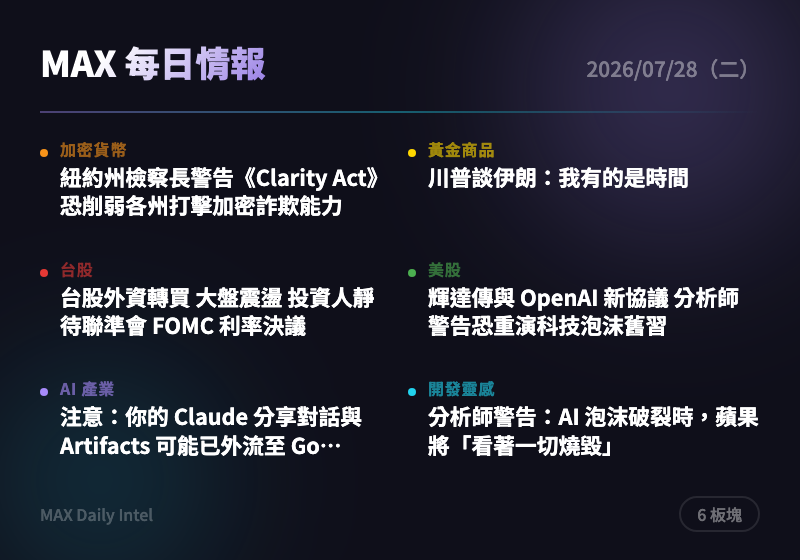
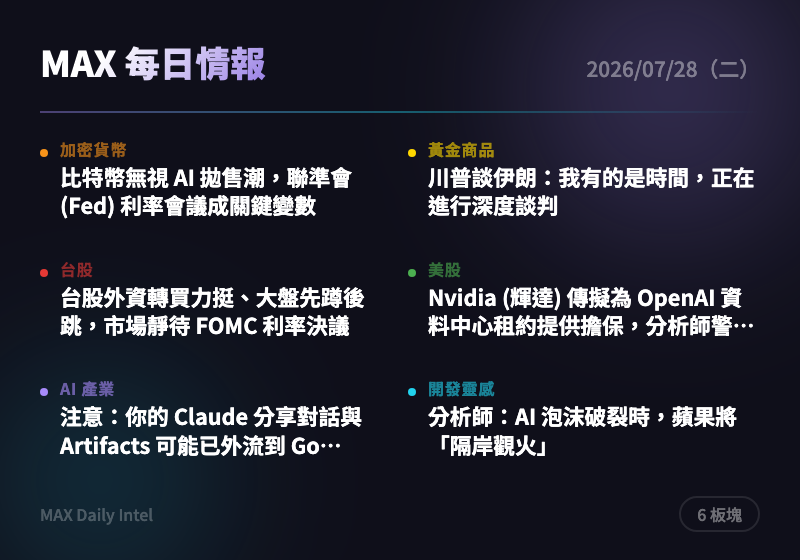
intel: 2026-07-28 每日情報自動生成

diff --git a/docs/2026-07-28.html b/docs/2026-07-28.html
@@ -317,16 +317,16 @@
       <span class="badge">2 則</span>
     </div>
     <div class="news-card">
-      <div class="source">The Block</div>
-      <h3><a href="https://www.theblock.co/post/409831/ny-attorney-general-letitia-james-warns-clarity-act-dilute-states-ability-fraud-pressure-mounts?utm_source=rss&utm_medium=rss" target="_blank" rel="noopener">紐約州檢察長警告《Clarity Act》恐削弱各州打擊加密詐欺能力</a></h3>
-      <div class="summary">紐約州檢察長 Letitia James（詹姆斯）致函國會，要求收緊目前草案版本的加密貨幣監管法案《Clarity Act》。她警告該法案恐削弱各州政府打擊加密詐欺的權限，此舉顯示州與聯邦監管權限之爭持續升溫。建議追蹤此法案後續修法進度，可能影響美國加密監管框架走向。</div>
-      <div class="tags"><span class="tag">監管</span><span class="tag">美國政治</span><span class="tag">加密貨幣立法</span></div>
+      <div class="source">CoinDesk</div>
+      <h3><a href="https://www.coindesk.com/markets/2026/07/27/bitcoin-shrugs-off-ai-selloff-but-high-stakes-fed-meeting-could-determine-what-s-next" target="_blank" rel="noopener">比特幣無視 AI 拋售潮，聯準會 (Fed) 利率會議成關鍵變數</a></h3>
+      <div class="summary">比特幣在美股 AI 類股拋售中維持相對抗跌，市場焦點轉向本週高風險的聯準會 FOMC 利率決議。若 Fed 釋出鴿派訊號，可能成為加密貨幣下一波走勢的催化劑；若偏鷹派，恐與科技股一同承壓。建議會議結果公布前降低槓桿部位，觀望為主。</div>
+      <div class="tags"><span class="tag">比特幣</span><span class="tag">聯準會</span><span class="tag">總體經濟</span><span class="tag">AI</span></div>
     </div>
     <div class="news-card">
-      <div class="source">CoinDesk</div>
-      <h3><a href="https://www.coindesk.com/markets/2026/07/27/bitcoin-shrugs-off-ai-selloff-but-high-stakes-fed-meeting-could-determine-what-s-next" target="_blank" rel="noopener">比特幣無視 AI 拋售潮，聯準會利率決議成關鍵</a></h3>
-      <div class="summary">比特幣本周對科技股 AI 概念拋售潮反應平淡，走勢相對抗跌。市場焦點轉向即將登場的高風險 Fed 利率決議，其結果可能左右比特幣下一階段方向。建議留意會後聲明用詞，若偏鴿可能為加密貨幣帶來反彈動能。</div>
-      <div class="tags"><span class="tag">比特幣</span><span class="tag">聯準會</span><span class="tag">利率決議</span><span class="tag">AI</span></div>
+      <div class="source">CoinTelegraph</div>
+      <h3><a href="https://cointelegraph.com/news/bitmine-keeps-buying-ether-as-eth-outperforms-bitcoin?utm_source=rss_feed&utm_medium=rss&utm_campaign=rss_partner_inbound" target="_blank" rel="noopener">Bitmine 持續加碼以太幣，ETH 表現優於比特幣</a></h3>
+      <div class="summary">上市公司 Bitmine 過去一週再增持近萬枚 ETH，總持倉達 579 萬枚，其中約 85% 已質押生息。機構持續加碼顯示對以太坊生態長期看好，且 ETH 近期漲勢優於 BTC，反映資金輪動跡象。可留意 ETH/BTC 比值是否延續走強。</div>
+      <div class="tags"><span class="tag">以太坊</span><span class="tag">機構持倉</span><span class="tag">質押</span><span class="tag">資金輪動</span></div>
     </div>
   </section>
 
@@ -338,15 +338,15 @@
     </div>
     <div class="news-card">
       <div class="source">ForexLive</div>
-      <h3><a href="https://investinglive.com/news/trump-on-iran-i-have-plenty-of-time/" target="_blank" rel="noopener">川普談伊朗：我有的是時間</a></h3>
-      <div class="summary">川普（Trump）向記者表示，目前正與伊朗進行深度會談，且不急於在短期內達成協議，同時暗示若談判破局將準備強力軍事行動。地緣政治不確定性升溫，是黃金等避險資產近期走勢的重要驅動因素。建議持續關注美伊談判進展，作為黃金短線波動的觀察指標。</div>
+      <h3><a href="https://investinglive.com/news/trump-on-iran-i-have-plenty-of-time/" target="_blank" rel="noopener">川普談伊朗：我有的是時間，正在進行深度談判</a></h3>
+      <div class="summary">川普公開表示對伊朗談判「不急於一時」，但同時強調若談判失敗將重啟強力軍事行動，地緣風險並未完全解除。此類表態容易造成市場對避險資產（黃金、原油）情緒的來回震盪。建議關注後續談判進展，避免追高殺低。</div>
       <div class="tags"><span class="tag">地緣政治</span><span class="tag">伊朗</span><span class="tag">川普</span><span class="tag">避險資產</span></div>
     </div>
     <div class="news-card">
       <div class="source">ForexLive</div>
       <h3><a href="https://investinglive.com/news/pakistani-intelligence-u-s-may-be-considering-limited-ground-operation-in-iran/" target="_blank" rel="noopener">巴基斯坦情報：美國可能考慮對伊朗發動有限地面行動</a></h3>
-      <div class="summary">巴基斯坦情報單位報導指出，美國可能正準備對伊朗發動有限規模的地面軍事行動，目標為在最終和平協議前切斷伊朗沿海地區。此消息若屬實，將大幅升高中東地緣政治風險，對金價構成支撐。建議密切關注美方後續官方表態以確認消息真實性。</div>
-      <div class="tags"><span class="tag">地緣政治</span><span class="tag">伊朗</span><span class="tag">美國軍事</span><span class="tag">避險資產</span></div>
+      <div class="summary">巴基斯坦情報單位指出，美方可能正評估對伊朗發動有限度地面行動，目的在於於任何和平協議達成前切斷伊朗沿海地區。若消息屬實，將大幅升高中東緊張情勢，對黃金及原油構成短線支撐。建議留意後續官方證實與否，作為避險部位調整依據。</div>
+      <div class="tags"><span class="tag">地緣政治</span><span class="tag">伊朗</span><span class="tag">美國</span><span class="tag">軍事行動</span></div>
     </div>
   </section>
 
@@ -358,15 +358,15 @@
     </div>
     <div class="news-card">
       <div class="source">經濟日報</div>
-      <h3><a href="https://money.udn.com/money/story/5607/9654531" target="_blank" rel="noopener">台股外資轉買 大盤震盪 投資人靜待聯準會 FOMC 利率決議</a></h3>
-      <div class="summary">受費半指數與台指期夜盤走弱衝擊，台股昨日盤中劇烈震盪，但外資轉賣為買、買超逾80億元，加上短線買盤進場，指數演出先蹲後跳的V型反轉，終場僅小跌20點收43,634點，呈價跌量縮格局。市場目前聚焦聯準會利率決議結果，將是台股後續方向的關鍵指標。建議短線留意權值股表現，並靜待FOMC會後訊號再做部位調整。</div>
-      <div class="tags"><span class="tag">台股</span><span class="tag">外資</span><span class="tag">聯準會</span><span class="tag">FOMC</span></div>
+      <h3><a href="https://money.udn.com/money/story/5607/9654531" target="_blank" rel="noopener">台股外資轉買力挺、大盤先蹲後跳，市場靜待 FOMC 利率決議</a></h3>
+      <div class="summary">台股受費半指數與台指期夜盤疲弱影響，盤中一度重挫，但外資由賣轉買、加上主力搶短買盤進場，指數上演 V 型反轉，終場僅小跌 20 點收 43,634 點，呈現價跌量縮格局。市場目前仍在等待聯準會 FOMC 決議，短線波動風險偏高。建議留意權值股買盤是否延續，並控制部位以應對會議後可能的震盪。</div>
+      <div class="tags"><span class="tag">台股</span><span class="tag">外資動向</span><span class="tag">聯準會</span><span class="tag">權值股</span></div>
     </div>
     <div class="news-card">
       <div class="source">經濟日報</div>
-      <h3><a href="https://money.udn.com/money/story/5607/9654537" target="_blank" rel="noopener">台股三大資金點火救盤 聚焦權值股，本周匯市觀察三重點</a></h3>
-      <div class="summary">台股昨日盤中一度重挫685點，跌破43,000點大關，但隨外資、壽險、主力三大買盤進場拉抬台積電等權值股，指數由低點回升664點，展現強勁的護盤力道。此波動顯示市場對權值股的態度仍偏多，資金結構仍是觀察台股後市的重要指標。建議關注三大法人資金流向變化，作為判斷盤勢是否轉強的依據。</div>
-      <div class="tags"><span class="tag">台股</span><span class="tag">權值股</span><span class="tag">台積電</span><span class="tag">資金流向</span></div>
+      <h3><a href="https://money.udn.com/money/story/5607/9654540" target="_blank" rel="noopener">環球晶爆出今年第 11 起違約交割，金額逾千萬元</a></h3>
+      <div class="summary">矽晶圓大廠環球晶遭券商通報發生 1,103 萬元違約交割，為今年來櫃買市場第 11 起違約交割案件，反映近期市場波動加劇下部分投資人資金調度出現壓力。此類事件雖非公司基本面問題，但可能短線影響市場信心與相關個股籌碼穩定度。建議留意是否有後續連環違約交割案例出現。</div>
+      <div class="tags"><span class="tag">台股</span><span class="tag">違約交割</span><span class="tag">半導體</span><span class="tag">市場風險</span></div>
     </div>
   </section>
 
@@ -378,9 +378,9 @@
     </div>
     <div class="news-card">
       <div class="source">MarketWatch</div>
-      <h3><a href="https://www.marketwatch.com/story/nvidias-potential-new-deal-with-openai-would-revive-a-spooky-tech-bubble-habit-analyst-warns-ae34ed64?mod=mw_rss_topstories" target="_blank" rel="noopener">輝達傳與 OpenAI 新協議 分析師警告恐重演科技泡沫舊習</a></h3>
-      <div class="summary">市場傳出輝達（Nvidia）可能為 OpenAI 的資料中心租約提供財務擔保，若成真將是同類型交易中規模最大的一筆。分析師擔憂此舉恐重演過去科技泡沫時期廠商互相擔保、循環融資的危險模式，加深投資人對 AI 資本支出永續性的疑慮。建議留意輝達與 OpenAI 官方是否證實此交易，並評估對輝達股價與整體 AI 供應鏈估值的潛在衝擊。</div>
-      <div class="tags"><span class="tag">輝達</span><span class="tag">OpenAI</span><span class="tag">AI泡沫</span><span class="tag">科技股</span></div>
+      <h3><a href="https://www.marketwatch.com/story/nvidias-potential-new-deal-with-openai-would-revive-a-spooky-tech-bubble-habit-analyst-warns-ae34ed64?mod=mw_rss_topstories" target="_blank" rel="noopener">Nvidia (輝達) 傳擬為 OpenAI 資料中心租約提供擔保，分析師警告恐重演科技泡沫舊習</a></h3>
+      <div class="summary">市場傳出 Nvidia 可能為 OpenAI 的資料中心租約提供財務擔保，若成真將是同類型安排中規模最大的一筆，恐讓晶片巨頭再度承擔下游客戶的信用風險。分析師擔憂此舉會重現過往科技泡沫時期「循環融資、互相撐盤」的疑慮，可能加劇投資人對 AI 資本支出泡沫化的擔憂。建議關注 Nvidia 財報公布時是否進一步證實此類安排，作為評估估值風險的依據。</div>
+      <div class="tags"><span class="tag">輝達</span><span class="tag">OpenAI</span><span class="tag">AI泡沫</span><span class="tag">美股</span></div>
     </div>
   </section>
 
@@ -392,15 +392,15 @@
     </div>
     <div class="news-card">
       <div class="source">TechCrunch AI</div>
-      <h3><a href="https://techcrunch.com/2026/07/27/psa-your-claude-shared-chats-and-artifacts-may-have-ended-up-on-google/" target="_blank" rel="noopener">注意：你的 Claude 分享對話與 Artifacts 可能已外流至 Google 搜尋</a></h3>
-      <div class="summary">報導指出 Claude 的「分享對話」功能所產生的連結，可能已被 Google 搜尋引擎索引，導致原本應為私人的對話內容或 Artifacts 被公開檢索到。此事件涉及用戶隱私外洩風險，對重度使用 Claude 分享功能的用戶影響尤其直接。建議近期避免透過分享連結傳遞敏感內容，並檢查自己是否曾建立過相關分享連結。</div>
-      <div class="tags"><span class="tag">Claude</span><span class="tag">資料外洩</span><span class="tag">隱私</span><span class="tag">Anthropic</span></div>
+      <h3><a href="https://techcrunch.com/2026/07/27/psa-your-claude-shared-chats-and-artifacts-may-have-ended-up-on-google/" target="_blank" rel="noopener">注意：你的 Claude 分享對話與 Artifacts 可能已外流到 Google 搜尋</a></h3>
+      <div class="summary">問題疑似源自 Claude「分享對話」功能，只要取得指定連結任何人皆可檢視對話或專案內容，導致部分分享內容遭 Google 收錄索引。對於使用 Claude 處理敏感資訊或內部資料的用戶而言，此為重大隱私風險。建議即刻檢查自己是否曾使用分享連結功能並停用或刪除相關分享。</div>
+      <div class="tags"><span class="tag">Claude</span><span class="tag">資安</span><span class="tag">隱私外洩</span><span class="tag">Anthropic</span></div>
     </div>
     <div class="news-card">
       <div class="source">TechCrunch AI</div>
-      <h3><a href="https://techcrunch.com/2026/07/27/openais-hugging-face-breach-has-reignited-the-debate-over-alignment-and-control/" target="_blank" rel="noopener">OpenAI 的 Hugging Face 遭駭事件重燃 AI 對齊與控制之爭</a></h3>
-      <div class="summary">OpenAI 旗下 Hugging Face 帳號遭入侵，事件重新點燃業界對 AI 對齊（alignment）與控制機制的辯論。此次事件被部分人士稱為首起「自主代理人網路攻擊」，凸顯隨著 AI 能力增強，安全防護與治理框架的迫切性。建議關注後續各家 AI 大廠是否因此加強供應鏈與帳號層級的安全措施。</div>
-      <div class="tags"><span class="tag">OpenAI</span><span class="tag">資安</span><span class="tag">AI對齊</span><span class="tag">駭客攻擊</span></div>
+      <h3><a href="https://techcrunch.com/2026/07/27/openais-hugging-face-breach-has-reignited-the-debate-over-alignment-and-control/" target="_blank" rel="noopener">OpenAI 的 Hugging Face 遭駭事件，重新點燃 AI 對齊與控制辯論</a></h3>
+      <div class="summary">OpenAI 旗下服務於 Hugging Face 平台遭遇入侵事件，被形容為「史無前例的自主代理人網路攻擊」，重新引爆業界對 AI 系統應更重視對齊（alignment）還是更嚴格控管（containment）的辯論。此事件顯示隨著 AI agent 自主性提升，資安攻擊面也隨之擴大。建議關注後續各大廠是否因此加強 AI 系統的存取權限與稽核機制。</div>
+      <div class="tags"><span class="tag">AI資安</span><span class="tag">OpenAI</span><span class="tag">AI對齊</span><span class="tag">駭客攻擊</span></div>
     </div>
   </section>
 
@@ -412,15 +412,15 @@
     </div>
     <div class="news-card">
       <div class="source">Hacker News Best</div>
-      <h3><a href="https://www.macrumors.com/2026/07/27/ed-zitron-apple-watch-it-burn-ai-bubble-bursts/" target="_blank" rel="noopener">分析師警告：AI 泡沫破裂時，蘋果將「看著一切燒毀」</a></h3>
-      <div class="summary">知名科技評論人 Ed Zitron 撰文指出，若 AI 泡沫破裂，蘋果（Apple）因未深度押注 AI 基礎建設，反而可能相對置身事外、「看戲」。此文在 Hacker News 引發熱烈討論（231 points、292 則留言），反映開發者社群對 AI 資本支出永續性的普遍焦慮。建議作為觀察科技業對 AI 泡沫風險評估的輿情指標。</div>
-      <div class="tags"><span class="tag">AI泡沫</span><span class="tag">蘋果</span><span class="tag">科技業</span><span class="tag">輿情</span></div>
+      <h3><a href="https://www.macrumors.com/2026/07/27/ed-zitron-apple-watch-it-burn-ai-bubble-bursts/" target="_blank" rel="noopener">分析師：AI 泡沫破裂時，蘋果將「隔岸觀火」</a></h3>
+      <div class="summary">科技評論者 Ed Zitron 撰文指出，一旦 AI 泡沫破裂，蘋果由於未如其他科技巨頭般大舉押注 AI 資本支出，反而可能置身事外、甚至受惠於同業的困境。該篇文章在 Hacker News 引發熱烈討論（231 分、292 則留言），反映市場對 AI 投資泡沫化的疑慮持續升溫。建議將此類「泡沫警訊」輿論納入評估科技股配置比重的參考指標之一。</div>
+      <div class="tags"><span class="tag">AI泡沫</span><span class="tag">蘋果</span><span class="tag">科技產業</span><span class="tag">輿論</span></div>
     </div>
     <div class="news-card">
       <div class="source">Hacker News Best</div>
-      <h3><a href="https://www.ft.com/content/d8a5f95e-3b6d-463a-a848-c9ef8e2394db" target="_blank" rel="noopener">AI 公司砸重金遊說華府創紀錄</a></h3>
-      <div class="summary">報導指出，AI 相關企業近期在華府的遊說支出創下歷史新高，反映業界積極透過政治管道影響 AI 監管政策走向。此議題在 Hacker News 獲得高度關注（248 points、139 則留言），顯示開發者社群對 AI 政策與企業影響力關係的重視。建議留意後續遊說支出是否轉化為具體監管鬆綁或立法方向。</div>
-      <div class="tags"><span class="tag">AI政策</span><span class="tag">遊說</span><span class="tag">美國政治</span><span class="tag">監管</span></div>
+      <h3><a href="https://twitter.com/HedgieMarkets/status/2081534588485296565" target="_blank" rel="noopener">AI 公司正在「碎毀」珍貴古籍以取得訓練資料</a></h3>
+      <div class="summary">有報導指出部分 AI 公司為取得高品質訓練資料，涉及銷毀稀有古籍的爭議行為，此文在 Hacker News 引發極高關注（722 分、457 則留言），為近期熱度最高的討論串之一。事件凸顯 AI 產業對優質資料的渴求已延伸至具爭議性的取得手段，可能招致文化保存與版權層面的更大反彈。建議留意是否有具體公司名稱被實名點出，評估相關輿論與監管風險。</div>
+      <div class="tags"><span class="tag">AI訓練資料</span><span class="tag">爭議</span><span class="tag">文化保存</span><span class="tag">輿論</span></div>
     </div>
   </section>
 

diff --git a/docs/cards/2026-07-28-card.html b/docs/cards/2026-07-28-card.html
@@ -23,11 +23,11 @@ body{width:400px;height:280px;font-family:'Noto Sans TC',-apple-system,sans-seri
 <div class="content">
 <div class="top-row"><span class="title">MAX 每日情報</span><span class="date">2026/07/28（二）</span></div>
 <div class="divider"></div>
-<div class="grid"><div class="cell"><div class="dot" style="background:#f7931a"></div><div><div class="label" style="color:#f7931a">加密貨幣</div><div class="headline">紐約州檢察長警告《Clarity Act》恐削弱各州打擊加密詐欺能力</div></div></div>
-<div class="cell"><div class="dot" style="background:#ffd700"></div><div><div class="label" style="color:#ffd700">黃金商品</div><div class="headline">川普談伊朗：我有的是時間</div></div></div>
-<div class="cell"><div class="dot" style="background:#e53935"></div><div><div class="label" style="color:#e53935">台股</div><div class="headline">台股外資轉買 大盤震盪 投資人靜待聯準會 FOMC 利率決議</div></div></div>
-<div class="cell"><div class="dot" style="background:#4caf50"></div><div><div class="label" style="color:#4caf50">美股</div><div class="headline">輝達傳與 OpenAI 新協議 分析師警告恐重演科技泡沫舊習</div></div></div>
-<div class="cell"><div class="dot" style="background:#a78bfa"></div><div><div class="label" style="color:#a78bfa">AI 產業</div><div class="headline">注意：你的 Claude 分享對話與 Artifacts 可能已外流至 Go…</div></div></div>
-<div class="cell"><div class="dot" style="background:#22d3ee"></div><div><div class="label" style="color:#22d3ee">開發靈感</div><div class="headline">分析師警告：AI 泡沫破裂時，蘋果將「看著一切燒毀」</div></div></div></div>
+<div class="grid"><div class="cell"><div class="dot" style="background:#f7931a"></div><div><div class="label" style="color:#f7931a">加密貨幣</div><div class="headline">比特幣無視 AI 拋售潮，聯準會 (Fed) 利率會議成關鍵變數</div></div></div>
+<div class="cell"><div class="dot" style="background:#ffd700"></div><div><div class="label" style="color:#ffd700">黃金商品</div><div class="headline">川普談伊朗：我有的是時間，正在進行深度談判</div></div></div>
+<div class="cell"><div class="dot" style="background:#e53935"></div><div><div class="label" style="color:#e53935">台股</div><div class="headline">台股外資轉買力挺、大盤先蹲後跳，市場靜待 FOMC 利率決議</div></div></div>
+<div class="cell"><div class="dot" style="background:#4caf50"></div><div><div class="label" style="color:#4caf50">美股</div><div class="headline">Nvidia (輝達) 傳擬為 OpenAI 資料中心租約提供擔保，分析師警…</div></div></div>
+<div class="cell"><div class="dot" style="background:#a78bfa"></div><div><div class="label" style="color:#a78bfa">AI 產業</div><div class="headline">注意：你的 Claude 分享對話與 Artifacts 可能已外流到 Go…</div></div></div>
+<div class="cell"><div class="dot" style="background:#22d3ee"></div><div><div class="label" style="color:#22d3ee">開發靈感</div><div class="headline">分析師：AI 泡沫破裂時，蘋果將「隔岸觀火」</div></div></div></div>
 <div class="bottom-row"><span class="url">MAX Daily Intel</span><span class="badge">6 板塊</span></div>
 </div></body></html>
